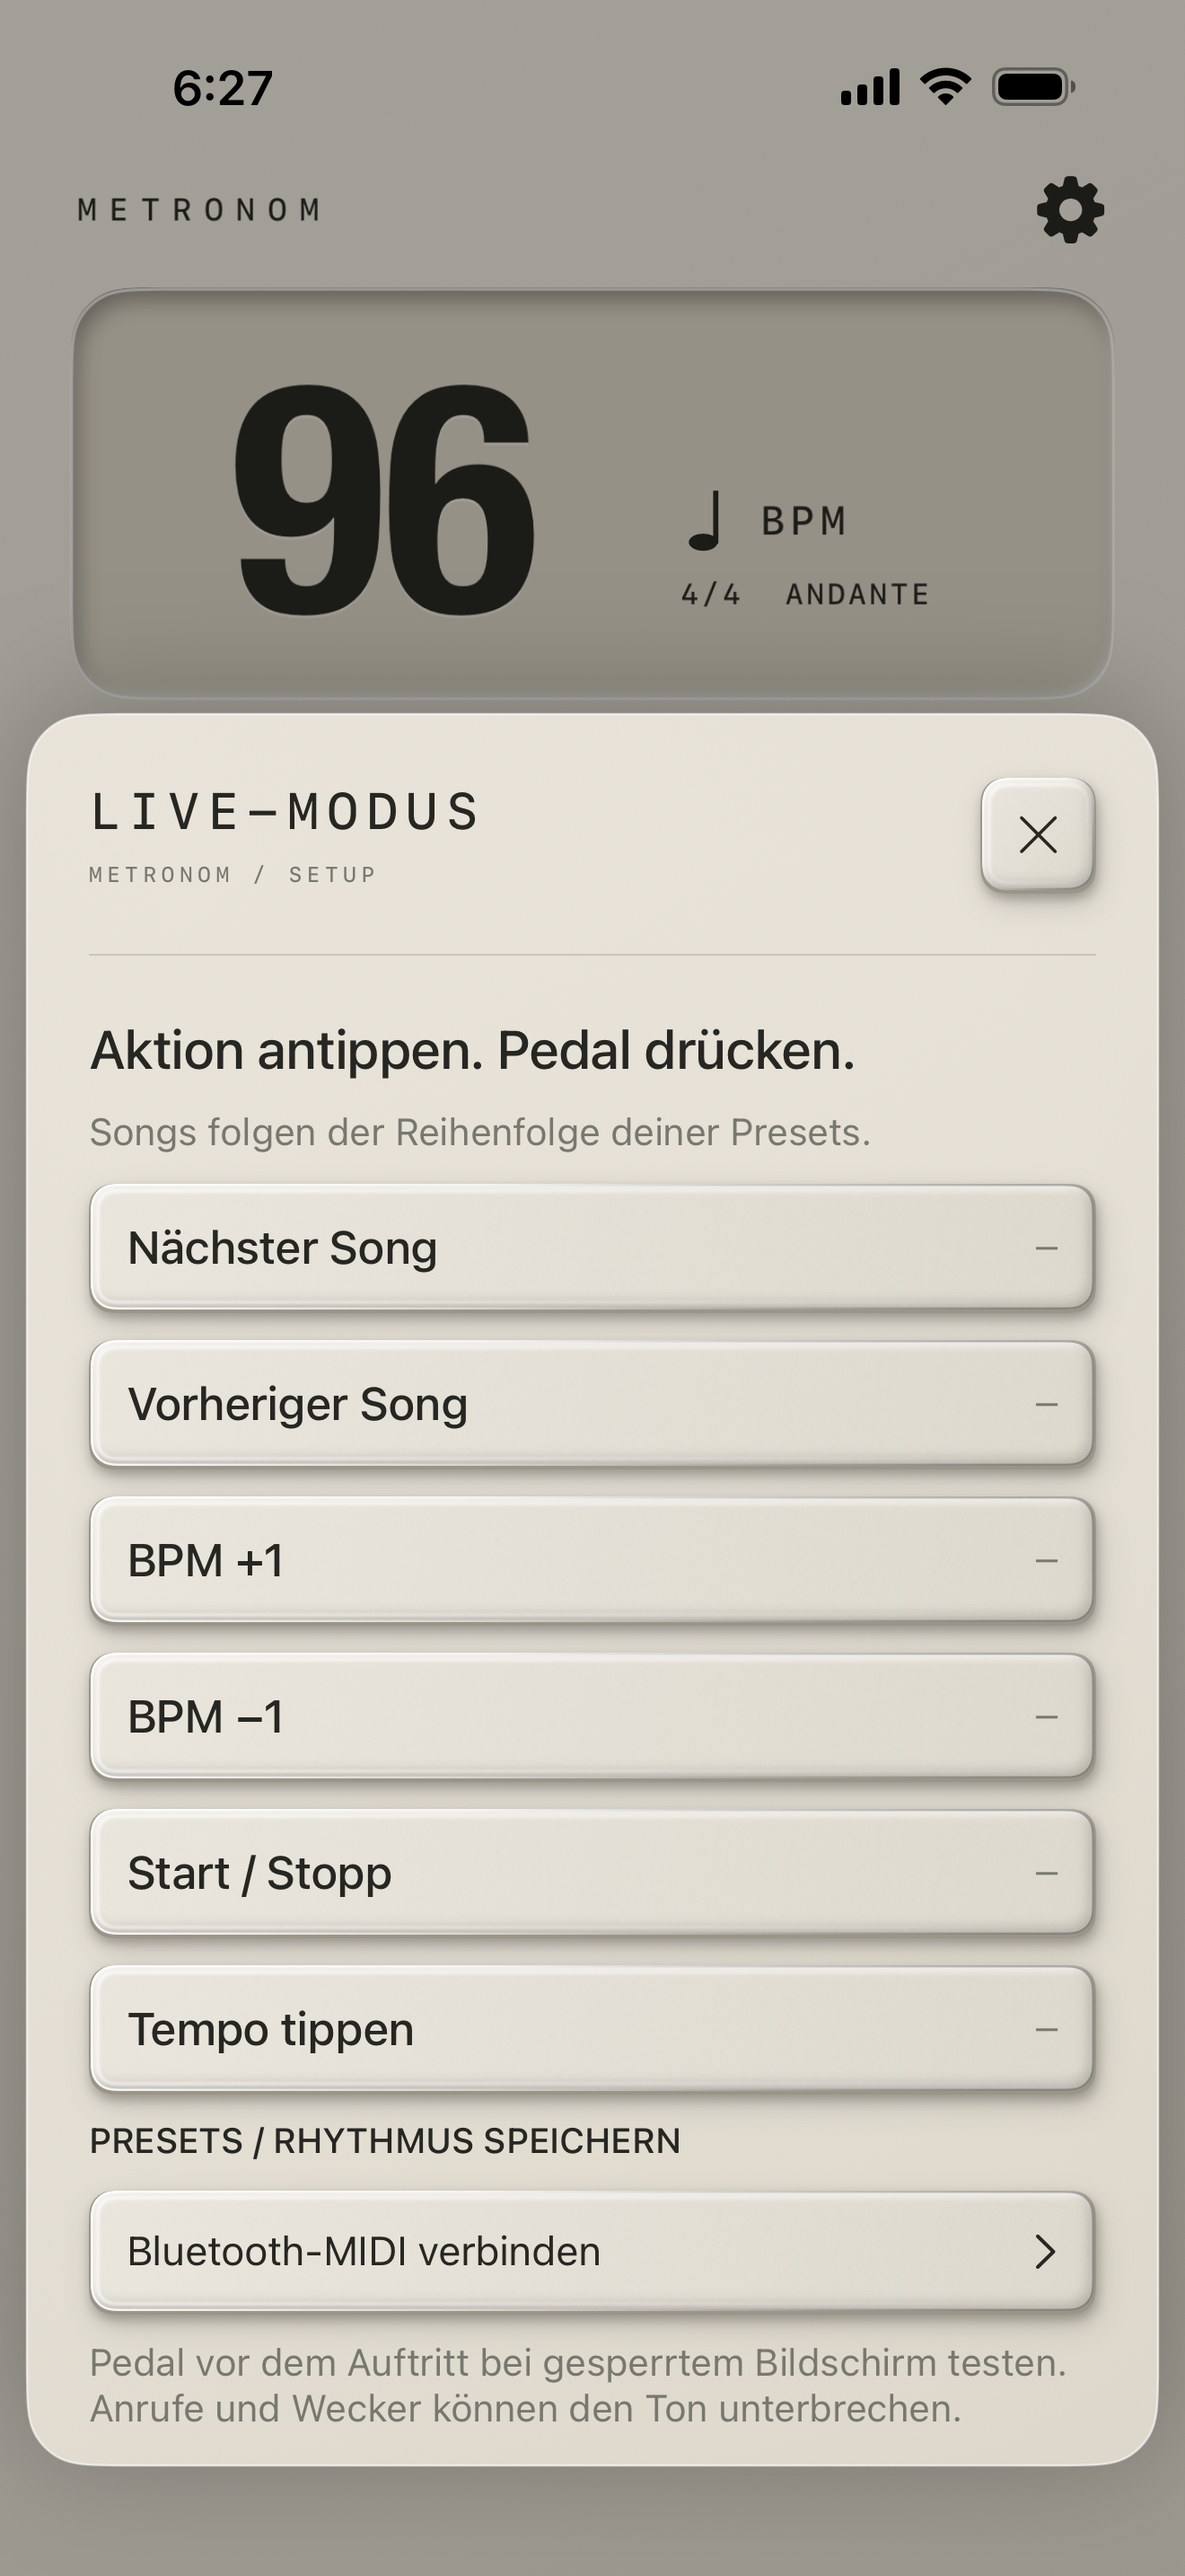
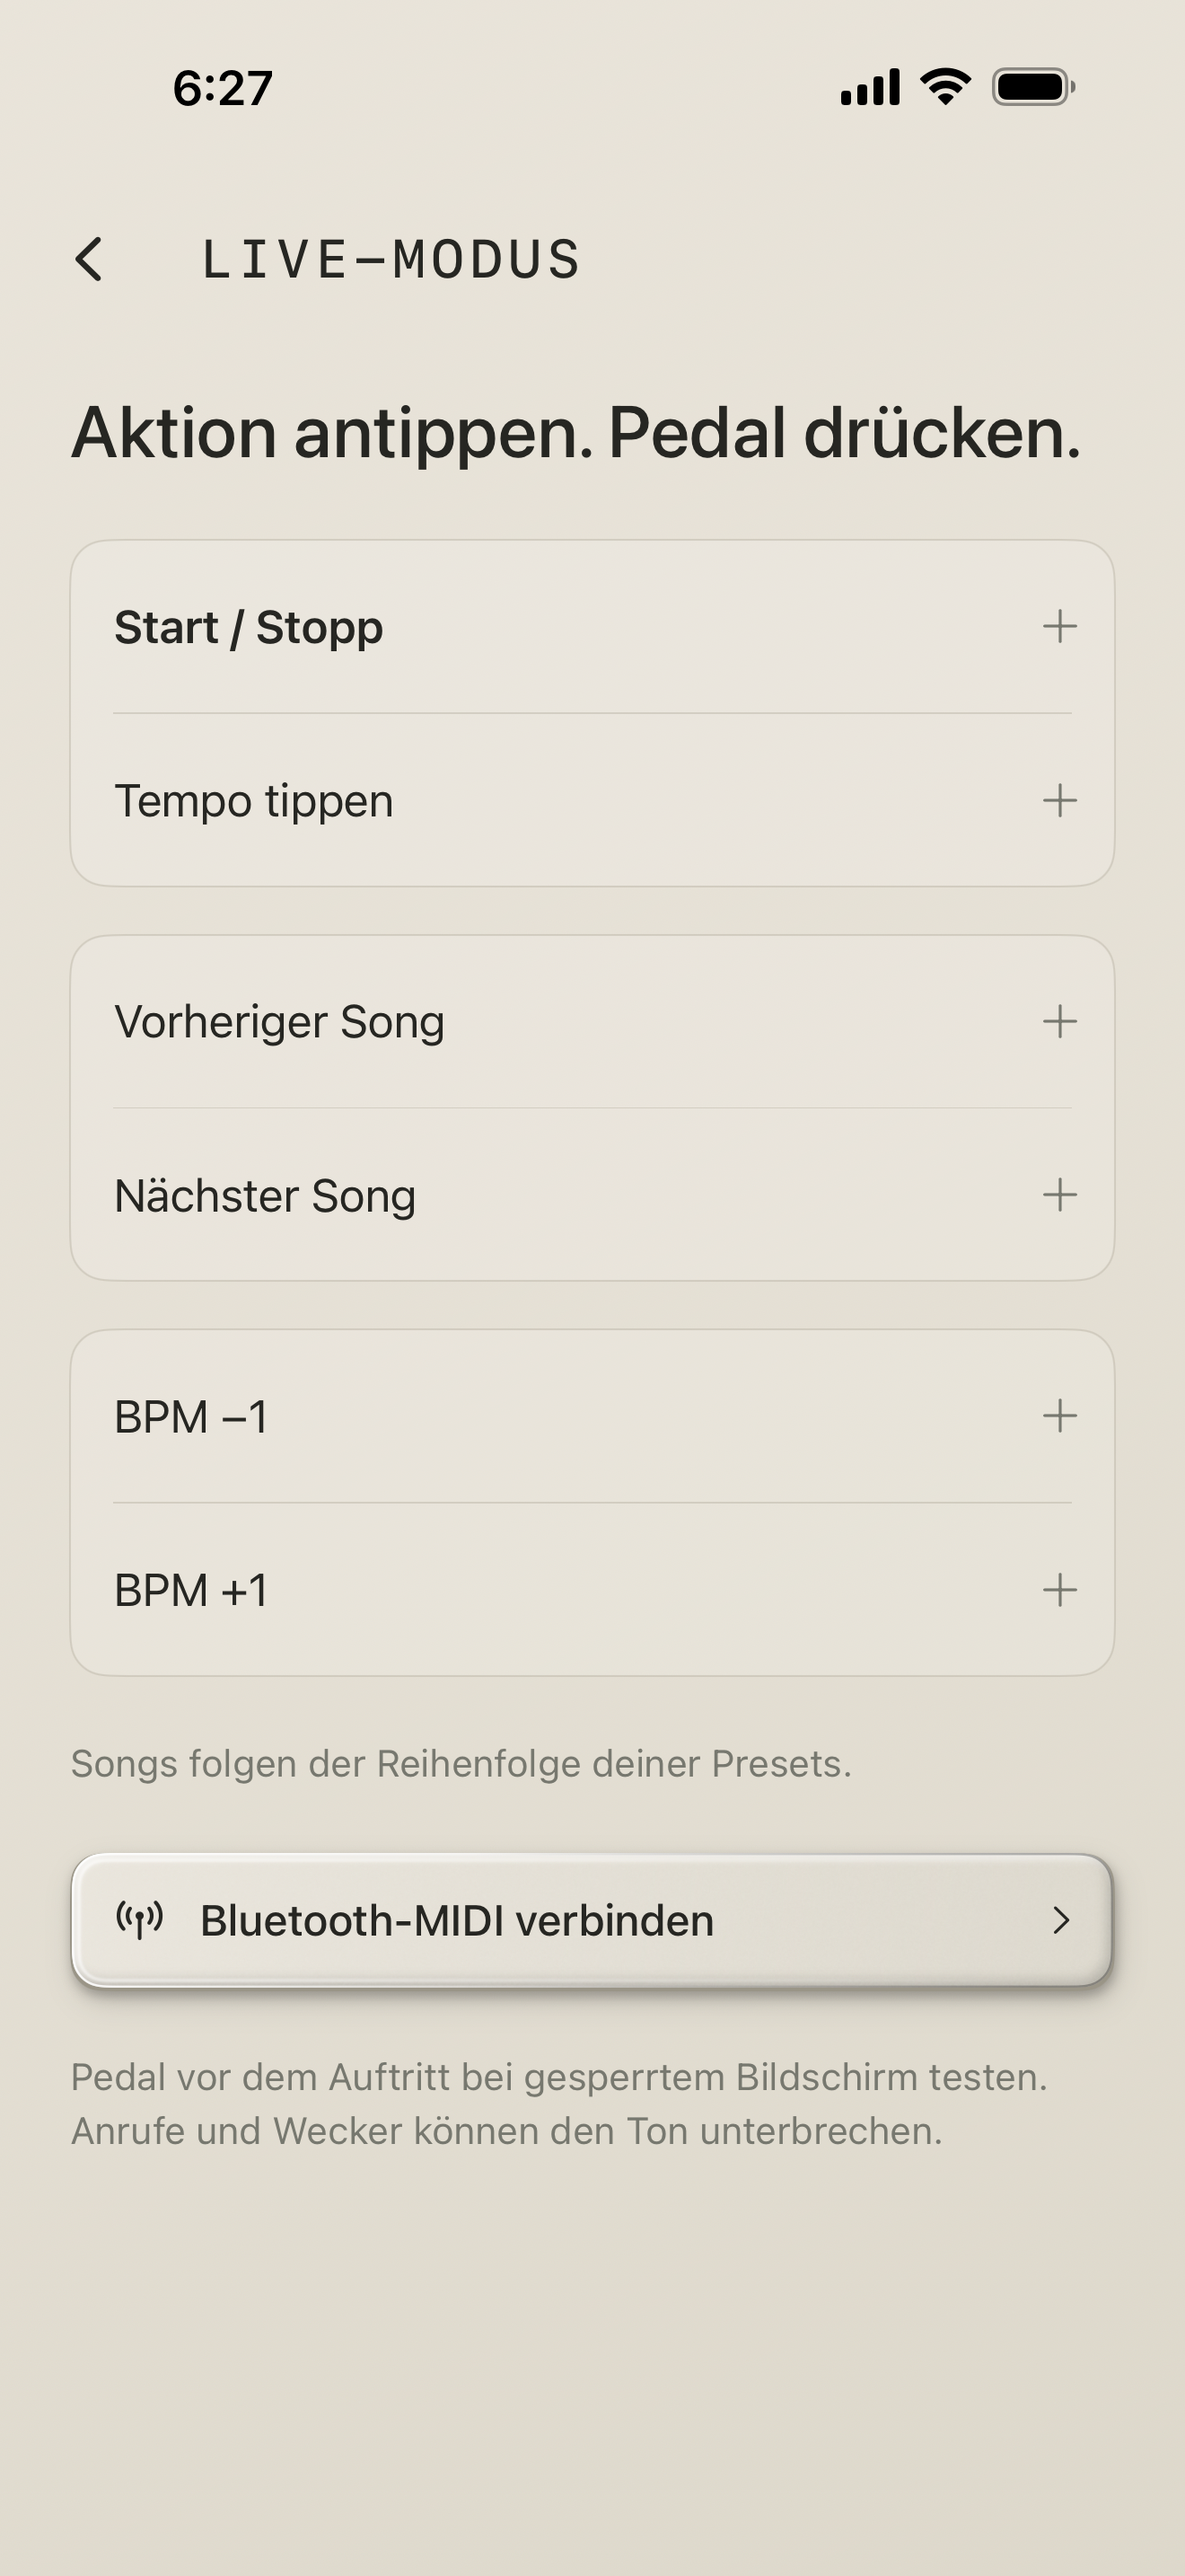
Simplify pedal setup into a full-page inline binding flow

diff --git a/TheMetronome/PedalSettingsView.swift b/TheMetronome/PedalSettingsView.swift
@@ -1,50 +1,64 @@
 import SwiftUI
 
+/// A dedicated setup page. Binding changes stay inline, without nesting another panel.
 struct PedalSettingsView: View {
     @ObservedObject var model: MetronomeModel
     @ObservedObject var pedal: PedalControl
     let p: InstrumentPalette
+    let close: () -> Void
     @State private var midiPicker = false
+    private let groups: [[PedalAction]] = [[.toggle, .tap], [.previous, .next], [.slower, .faster]]
     var body: some View {
-        VStack(alignment: .leading, spacing: 10) {
-            Text("Tap an action. Press your pedal.").font(.system(size: 20, weight: .medium))
-            Text("Songs follow your saved preset order.").font(.system(size: 14)).foregroundStyle(p.muted)
-            ForEach(PedalAction.allCases) { action in
-                VStack(alignment: .leading, spacing: 8) {
-                    Button { pedal.learning == action ? pedal.cancelLearning() : model.beginPedalLearning(action) } label: {
-                        HStack(spacing: 12) {
-                            Text(action.title).font(.system(size: 17, weight: .medium))
-                            Spacer(minLength: 4)
-                            Text(pedal.learning == action ? L10n.text("Press now…") : pedal.bindings[action]?.label ?? "—")
-                                .font(.system(size: 13, design: .monospaced)).foregroundStyle(pedal.learning == action ? InstrumentPalette.orange : p.muted)
-                                .multilineTextAlignment(.trailing)
-                        }.padding(.horizontal, 14).padding(.vertical, 12).frame(minHeight: 48)
-                    }.buttonStyle(HardwareButtonStyle(p: p, radius: 9)).accessibilityIdentifier("pedal-\(action.rawValue)")
-                    if pedal.learning == action {
-                        HStack {
-                            Button("Cancel") { pedal.cancelLearning() }
-                            Spacer()
-                            if pedal.bindings[action] != nil { Button("Remove assignment") { pedal.clear(action) } }
-                        }.font(.system(size: 14)).padding(.horizontal, 4)
+        VStack(spacing: 0) {
+            HStack(spacing: 18) {
+                Button { pedal.cancelLearning(); close() } label: {
+                    Image(systemName: "chevron.left").font(.system(size: 19, weight: .medium))
+                        .frame(width: 44, height: 44)
+                }.buttonStyle(.plain).accessibilityLabel("Done").accessibilityIdentifier("close-panel")
+                Text("LIVE MODE").technical(20, spacing: 2)
+                Spacer()
+            }.padding(.horizontal, 12).padding(.vertical, 12)
+            ScrollView {
+                VStack(alignment: .leading, spacing: 24) {
+                    Text("Tap an action. Press your pedal.")
+                        .font(.system(size: 27, weight: .medium)).fixedSize(horizontal: false, vertical: true)
+                        .padding(.top, 14)
+                    VStack(spacing: 18) {
+                        ForEach(groups.indices, id: \.self) { index in
+                            VStack(spacing: 0) {
+                                ForEach(groups[index]) { action in
+                                    bindingRow(action)
+                                    if action != groups[index].last {
+                                        Rectangle().fill(p.edge.opacity(0.35)).frame(height: 0.5).padding(.horizontal, 16)
+                                    }
+                                }
+                            }.background(p.light.opacity(0.22), in: RoundedRectangle(cornerRadius: 14))
+                                .overlay(RoundedRectangle(cornerRadius: 14).stroke(p.edge.opacity(0.35), lineWidth: 0.7))
+                        }
                     }
-                }
-            }
-            Text(model.presetCaption).font(.system(size: 13, weight: .medium)).accessibilityIdentifier("live-song")
-            if pedal.bindings.values.contains(where: { $0.kind == .keyboard }) {
-                Text("Keyboard pedals work while this app is on screen. For lock-screen control, use a media or MIDI mode.")
-                    .font(.system(size: 14)).foregroundStyle(p.ink)
-            }
-            Button { pedal.enableMIDI(); midiPicker = true } label: {
-                HStack { Text("Connect Bluetooth MIDI"); Spacer(); Image(systemName: "chevron.right") }
-                    .font(.system(size: 15)).padding(14)
-            }.buttonStyle(HardwareButtonStyle(p: p, radius: 9)).accessibilityIdentifier("pedal-midi")
-            Text("Test your pedal with the screen locked before a performance. Calls and alarms can interrupt audio.")
-                .font(.system(size: 14)).foregroundStyle(p.muted)
-            if !pedal.bindings.isEmpty {
-                Button("Remove all assignments") { pedal.clearAll() }.font(.system(size: 14)).foregroundStyle(p.muted).accessibilityIdentifier("pedal-clear")
-            }
-            if let problem = pedal.problem { Text(problem).foregroundStyle(InstrumentPalette.orange) }
-        }.fixedSize(horizontal: false, vertical: true)
+                    Text("Songs follow your saved preset order.").font(.system(size: 14)).foregroundStyle(p.muted)
+                    Button { pedal.cancelLearning(); pedal.enableMIDI(); midiPicker = true } label: {
+                        HStack(spacing: 12) {
+                            Image(systemName: "antenna.radiowaves.left.and.right")
+                            Text("Connect Bluetooth MIDI")
+                            Spacer(minLength: 4)
+                            Image(systemName: "chevron.right").font(.system(size: 12))
+                        }.font(.system(size: 16, weight: .medium)).padding(16)
+                    }.buttonStyle(HardwareButtonStyle(p: p, radius: 12)).accessibilityIdentifier("pedal-midi")
+                    if pedal.bindings.values.contains(where: { $0.kind == .keyboard }) {
+                        Text("Keyboard pedals work while this app is on screen. For lock-screen control, use a media or MIDI mode.")
+                            .font(.system(size: 14)).foregroundStyle(p.ink)
+                    }
+                    Text("Test your pedal with the screen locked before a performance. Calls and alarms can interrupt audio.")
+                        .font(.system(size: 14)).foregroundStyle(p.muted).lineSpacing(3)
+                    if let problem = pedal.problem { Text(problem).foregroundStyle(InstrumentPalette.orange) }
+                }.padding(.horizontal, 26).padding(.bottom, 28).frame(maxWidth: 520)
+                    .frame(maxWidth: .infinity)
+            }.scrollBounceBehavior(.basedOnSize)
+        }.foregroundStyle(p.ink)
+            .background { InstrumentBody(p: p).ignoresSafeArea() }
+            .preferredColorScheme(model.dark ? .dark : .light)
+            .accessibilityAddTraits(.isModal)
             .onDisappear { pedal.cancelLearning() }
             .sheet(isPresented: $midiPicker) {
                 NavigationStack {
@@ -52,5 +66,33 @@ struct PedalSettingsView: View {
                         .toolbar { ToolbarItem(placement: .confirmationAction) { Button("Done") { midiPicker = false } } }
                 }
             }
+    }
+    private func bindingRow(_ action: PedalAction) -> some View {
+        let listening = pedal.learning == action
+        let binding = pedal.bindings[action]
+        return HStack(spacing: 0) {
+            Button { listening ? pedal.cancelLearning() : model.beginPedalLearning(action) } label: {
+                HStack(spacing: 12) {
+                    Text(action.title).font(.system(size: 17, weight: action == .toggle ? .semibold : .regular))
+                        .fixedSize(horizontal: false, vertical: true)
+                    Spacer(minLength: 4)
+                    if listening {
+                        Text("Press now…").font(.system(size: 14, weight: .medium)).foregroundStyle(InstrumentPalette.orange)
+                    } else if let binding {
+                        Text(binding.label).font(.system(size: 13, design: .monospaced)).foregroundStyle(p.muted)
+                            .multilineTextAlignment(.trailing)
+                    } else {
+                        Image(systemName: "plus").font(.system(size: 16, weight: .light)).foregroundStyle(p.muted)
+                    }
+                }.padding(.leading, 16).padding(.trailing, 12).frame(minHeight: 64).contentShape(Rectangle())
+            }.buttonStyle(.plain).accessibilityIdentifier("pedal-\(action.rawValue)")
+                .accessibilityValue(listening ? L10n.text("Press now…") : binding?.label ?? "")
+            if listening || binding != nil {
+                Button { listening ? pedal.cancelLearning() : pedal.clear(action) } label: {
+                    Image(systemName: listening ? "xmark" : "minus.circle")
+                        .font(.system(size: 16)).foregroundStyle(p.muted).frame(width: 44, height: 64)
+                }.buttonStyle(.plain).accessibilityLabel(listening ? L10n.text("Cancel") : L10n.text("Remove assignment"))
+            }
+        }.background(listening ? InstrumentPalette.orange.opacity(0.07) : Color.clear)
     }
 }

diff --git a/TheMetronome/InstrumentPanels.swift b/TheMetronome/InstrumentPanels.swift
@@ -71,7 +71,14 @@ struct InstrumentPanel: View {
         }
         _selected = State(initialValue: value)
     }
-    var body: some View {
+    @ViewBuilder var body: some View {
+        if kind == .pedal {
+            PedalSettingsView(model: model, pedal: model.pedal, p: p, close: close)
+        } else {
+            standardPanel
+        }
+    }
+    private var standardPanel: some View {
         GeometryReader { geometry in
             ZStack(alignment: .bottom) {
                 Color.black.opacity(model.dark ? 0.55 : 0.30).ignoresSafeArea().onTapGesture { dismiss() }
@@ -113,7 +120,7 @@ struct InstrumentPanel: View {
         case .practice: practicePanel
         case .presets: presetPanel
         case .sounds: SoundLibraryView(model: model)
-        case .pedal: PedalSettingsView(model: model, pedal: model.pedal, p: p)
+        case .pedal: PedalSettingsView(model: model, pedal: model.pedal, p: p, close: close)
         case .audio:
             VStack(alignment: .leading, spacing: 25) {
                 Text(model.error ?? L10n.text("Audio output changed.")).font(.system(size: 15)).lineSpacing(5)

diff --git a/TheMetronomeUITests/PhysicalLiveModeTests.swift b/TheMetronomeUITests/PhysicalLiveModeTests.swift
@@ -9,6 +9,8 @@ final class PhysicalLiveModeTests: XCTestCase {
         XCTAssertTrue(transport.waitForExistence(timeout: 8))
         let stoppedLabel = transport.label
         transport.tap()
+        let started = XCTNSPredicateExpectation(predicate: NSPredicate(format: "label != %@", stoppedLabel), object: transport)
+        XCTAssertEqual(XCTWaiter.wait(for: [started], timeout: 5), .completed, app.debugDescription)
         let runningLabel = transport.label
         XCTAssertNotEqual(stoppedLabel, runningLabel)
         XCUIDevice.shared.press(.home)
